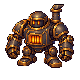
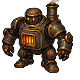
Restore original Hound, Crow and Guardian artwork

diff --git a/tests/e2e/sprites.spec.ts b/tests/e2e/sprites.spec.ts
@@ -37,7 +37,14 @@ for(const [device,viewport,dpr] of [['desktop',{width:1280,height:800},1],['phon
         all.push({hero,suffix,top,bottom,components,width:image.naturalWidth,height:image.naturalHeight});
       }return all;
     });
-    for(const actor of feet){expect(actor.width).toBe(80);expect(actor.height).toBe(80);expect(actor.bottom,`${actor.hero}${actor.suffix} ground`).toBe(67);expect(actor.components,`${actor.hero}${actor.suffix} has no detached alpha fragments`).toBe(1);expect(actor.top).toBeGreaterThanOrEqual(4);expect(actor.top).toBeLessThanOrEqual(actor.hero==='crow'?40:actor.hero==='hound'?26:10);}
+    for(const actor of feet){
+      expect(actor.width).toBe(80);expect(actor.height).toBe(80);
+      // These enemies retain their original native silhouettes and placement.
+      if(['hound','crow','guardian'].includes(actor.hero))continue;
+      expect(actor.bottom,`${actor.hero}${actor.suffix} ground`).toBe(67);
+      expect(actor.components,`${actor.hero}${actor.suffix} has no detached alpha fragments`).toBe(1);
+      expect(actor.top).toBeGreaterThanOrEqual(4);expect(actor.top).toBeLessThanOrEqual(10);
+    }
     await capture(page,`sprite-cast-${device}`);
     await review.getByRole('button',{name:'Inspect Celia',exact:true}).click();
     await review.getByRole('group',{name:'Facing',exact:true}).getByRole('button',{name:'Back',exact:true}).click();

diff --git a/assets/characters/supporting-prompts.md b/assets/characters/supporting-prompts.md
@@ -9,11 +9,6 @@ STYLE MUST MATCH THE FIRST REFERENCE closely: compact 2.75-head-tall super-defor
 LAYOUT: vertical sheet. One large HEAD-AND-SHOULDERS portrait centered in the UPPER HALF, with its complete hair and shoulders visible. One complete compact FRONT-FACING world actor centered in the LOWER HALF, feet visible. The entire portrait is ABOVE the horizontal midpoint and the entire actor is BELOW it, with a wide transparent gap at midpoint. ONLY these two depictions; do not copy the four-direction layout of Nell's reference. Pixel clusters should be large enough to survive export to portrait 128x128 and world actor 80x80, actual figure 64 pixels tall. World face must retain clear eyes and a tiny mouth at that size. Same anatomy, costume, face and colors in both cutouts.
 BACKGROUND: genuine transparency. No labels, text, frames, panels, scenery, cast shadows, ground shadows, glow, floating specks, extra figures or extra poses.
 
-## Single-enemy prompt
-
-Use case: style-transfer. Asset type: ONE transparent JRPG world actor. Image 1 is Nell's approved party atlas, STYLE REFERENCE ONLY; image 2 is the existing enemy, IDENTITY AND MECHANICAL DESIGN reference only. Replace the old realistic finely textured rendering with the party's simplified late-16-bit/early-PC JRPG pixel clusters: crisp dark warm outline, warm upper-left highlights, blue-violet shadows, clear compact silhouette, broad readable metal panels and a few clean brass joints. Same world camera as Nell's front-facing actors, slightly from above, coherent level of detail. No human face or costume; do not draw Nell.
-COMPOSITION: ONE complete enemy in the center with generous genuine transparent margins. No portrait, extra pose, second figure, diagram, text, labels, palette, borders, scenery, floor or ground shadow. No floating debris, detached sparks, opaque backdrop, glow halo or steam cloud. Its entire silhouette and feet must fit well within the canvas. Design for an 80x80 export, using deliberate large clusters so the identity survives point sampling.
-
 ## Identity briefs
 
 ### master
@@ -68,20 +63,8 @@ The Sanctuary Warden: heavy weathered TEAL/GREEN verdigris and bronze cylindrica
 
 Inspector: a humanoid CLOCKWORK ENFORCER, NOT a human. Cold pale steel/iron articulated MASK face with TWO small amber glowing lens eyes, no hair, no flesh, no moustache, no beard. Charcoal peaked railway officer cap with brass sun badge, dark charcoal longcoat with brass trim and buttons, reddish-brown cross-body strap, mechanical gloved hands and dark heavy boots. Holds a long brass staff topped with a round RED STOP DISC in its anatomical LEFT hand; RIGHT arm rests by side. Severe rigid posture. Distinct from human Captain Alban. Portrait includes metal mask and cap; keep the face simplified into bold readable pixel clusters.
 
-### hound
-
-Hound: a low, lean but sturdy four-legged CLOCKWORK pursuit dog. Angular long bronze snout with steel jaw teeth, two pointed triangular ears, warm orange lens eyes, black iron neck and spine, riveted brown-bronze body armor with one visible circular shoulder gear, jointed mechanical legs ending in broad metal paws, short curved thin metal tail. Grounded standing ready stance in three-quarter view FACING LEFT, all FOUR legs anatomically clear. Not a living furry dog, wolf or toy. Large readable head and compact simplified mechanics to match Nell's world style. Native target approximately 64 pixels wide and 44 high, below the human characters' 64-pixel height.
-
-### crow
-
-Crow: a small CLOCKWORK signal crow standing on two bronze jointed legs and three-toed mechanical feet. Charcoal/navy-black layered feather-shaped metal panels, black angular beak, bright small amber/orange lens eye in a round brass fitting, thin bronze neck/collar and wing joints. Wings FOLDED against the body; long compact black metal tail. Three-quarter view FACING RIGHT, readable crow silhouette with one clear orange eye. No flying pose, perch, branch, human accessories, loose feathers or sparks. Simplify the panel clusters to match Nell's actor shading. Native target about 40 wide and 32 high; this is a small enemy.
-
-### guardian
-
-Guardian: a broad squat intimidating CLOCKWORK collector guard, much wider than a human but the same compact world-actor height. Rounded dark iron head with TWO small amber rectangular lens eyes under a heavy bronze brow, no mouth or human face. Rectangular orange furnace grate in the chest, heavy overlapping bronze shoulder plates, huge jointed forearms ending in CLOSED METAL FISTS, short armored mechanical legs and broad square bronze feet, ONE exhaust chimney rising from its anatomical LEFT shoulder. Warm bronze/blackened iron, brass edges, few rivets. Distinct from the Heart regulator: NO large round pressure gauge and NO clamp claws. Frontal ready stance, compact rather than realistic proportions. Target fits 72 wide by 64 high.
-
 ## Native export
 
-Run `node scripts/import-character-atlas.mjs <asset-id> <source.png>`. The supporting-cast manifest selects a portrait/actor pair or a single enemy actor. Pair exports find the transparent gap between the portrait and actor. Source and native cutouts discard detached alpha fragments; nearest-neighbor sampling copies complete source RGBA pixels. Per-view phases in `sampling-offsets.json` are selected from native face comparisons, with no painted corrections or palette conversion.
+Run `node scripts/import-character-atlas.mjs <asset-id> <source.png>`. The supporting-cast manifest records the retained portrait/actor replacements. Hound, Crow and Guardian use their original native PNGs; their rejected resampled replacements are not production sources. Pair exports find the transparent gap between the portrait and actor. Source and native cutouts discard detached alpha fragments; nearest-neighbor sampling copies complete source RGBA pixels. Per-view phases in `sampling-offsets.json` are selected from native face comparisons, with no painted corrections or palette conversion.
 
-Human and large mechanical figures use a 64-pixel height budget within the 80 x 80 canvas. The hound has a 44-pixel height budget and the crow 32; widths are bounded without stretching. Every world actor meets the common row-68 ground guide. Portraits remain 128 x 128. Runtime code renders the committed art at native size.
+The replacement figures use a 64-pixel height budget within the 80 x 80 canvas, with widths bounded without stretching and a row-68 ground guide. The three original enemy PNGs retain their original silhouettes and placement. Portraits remain 128 x 128. Runtime code renders the committed art at native size.

diff --git a/docs/art-direction.md b/docs/art-direction.md
@@ -83,10 +83,10 @@ The Vite-only **Sprites** workshop compares the whole cast, native portraits, di
 
 ## Supporting cast and enemies
 
-All twelve registered NPCs and all four combat archetypes now use the party's compact proportions, simplified faces, warm outlines, upper-left highlights and blue-violet shadows. Each named NPC has a matching new portrait and front actor; the Inspector also keeps its portrait. The hound, crow and generic guardian remain actor-only. Existing asset IDs preserve dialogue portraits, exploration encounters and named boss appearances across all four chapters.
+All twelve registered NPCs and the Inspector use the party's compact proportions, simplified faces, warm outlines, upper-left highlights and blue-violet shadows. Each has a matching new portrait and front actor. Hound, Crow and Guardian retain their original native sprites: the attempted replacements lost too much detail during downsampling. Existing asset IDs preserve dialogue portraits, exploration encounters and named boss appearances across all four chapters.
 
 The old art supplied identity and costume references while Nell's approved atlas supplied rendering and proportions. Elspeth stays seated in her complete wheelchair; Tilda keeps her kerchief and apron; Ansel keeps his white moustache; Iona keeps her hat, spectacles and ledger. Alban remains visibly human, distinct from the Inspector's steel mask and orange lenses. The Engine Warden keeps its glass signal head and semaphore apparatus; the heart regulator keeps its pressure gauge and clamp hands; the Sanctuary Warden keeps its blue visor and large chest valve. The generic guardian has furnace armor and closed fists, without the regulator's pressure gauge.
 
-World actors use native 80 x 80 canvases and the common ground anchor at (40, 68). The hound and crow have smaller 44- and 32-pixel height budgets; figures and large machines have a 64-pixel height budget. Width limits preserve aspect ratios. Portraits remain native 128 x 128. The authoring exporter separates portrait/actor pairs at their transparent gap, removes detached fragments and applies recorded nearest-neighbor sampling phases without blending colors. Runtime rendering is unchanged.
+World actors use native 80 x 80 canvases. The replacement figures use the common ground anchor at (40, 68) and a 64-pixel height budget; the three original enemy sprites retain their original silhouettes and placement. Width limits preserve aspect ratios. Portraits remain native 128 x 128. The authoring exporter separates portrait/actor pairs at their transparent gap, removes detached fragments and applies recorded nearest-neighbor sampling phases without blending colors. Runtime rendering is unchanged.
 
 `assets/characters/supporting-prompts.md` records the built-in Image Gen prompts and export workflow. `supporting-cast.json` records source-sheet filenames and size budgets; `sampling-offsets.json` records selected actor phases. The workshop reviews every replacement against the same native ground guides as the party.

diff --git a/AGENTS.md b/AGENTS.md
@@ -38,4 +38,4 @@ All five playable characters have front/left/right/back actors in `public/art/`,
 
 The sprite workshop catalog includes every registered NPC plus the combat enemy actors; single-view assets must not pretend to have mirrored direction frames. Playable left/right frames preserve physical handedness (Nell’s lantern right, Petra’s shield left). Authoring exports must remove detached alpha fragments before cropping and after native sampling.
 
-NPCs and enemies share the party's compact pixel style. Supporting-cast source sheets, size budgets and briefs are recorded in `assets/characters/supporting-cast.json` and `supporting-prompts.md`; the same authoring exporter supports portrait/actor pairs and single enemy actors. Keep the twelve NPC identities and four enemy archetypes distinct, including Elspeth's complete wheelchair and the three wardens' different mechanisms. All world actors share the row-68 ground guide; smaller hound and crow silhouettes retain their own size budgets.
+The twelve NPCs and Inspector share the party's compact pixel style. Supporting-cast source sheets, size budgets and briefs are recorded in `assets/characters/supporting-cast.json` and `supporting-prompts.md`. Keep the NPC identities and enemy archetypes distinct, including Elspeth's complete wheelchair and the three wardens' different mechanisms. Replacement actors share the row-68 ground guide. Hound, Crow and Guardian retain their original native artwork and placement; do not replace them with the rejected resampled versions.
